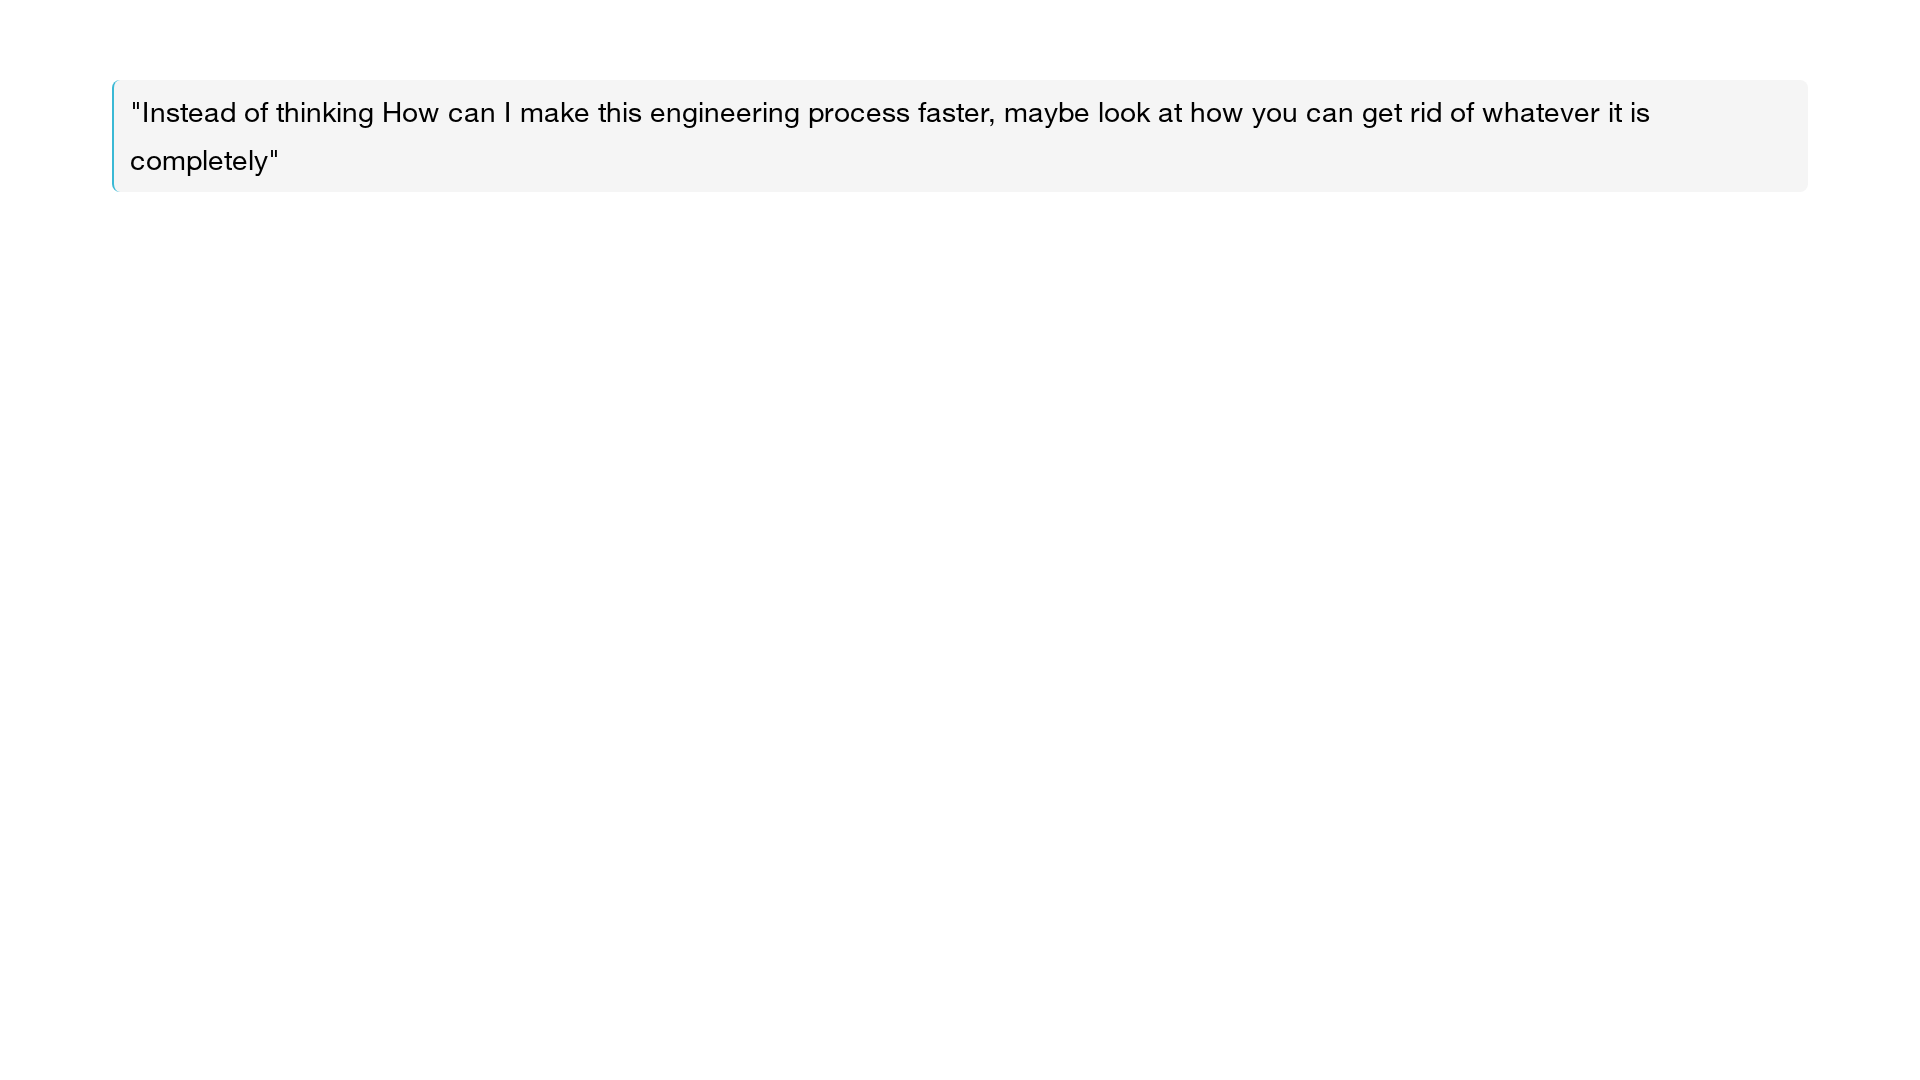
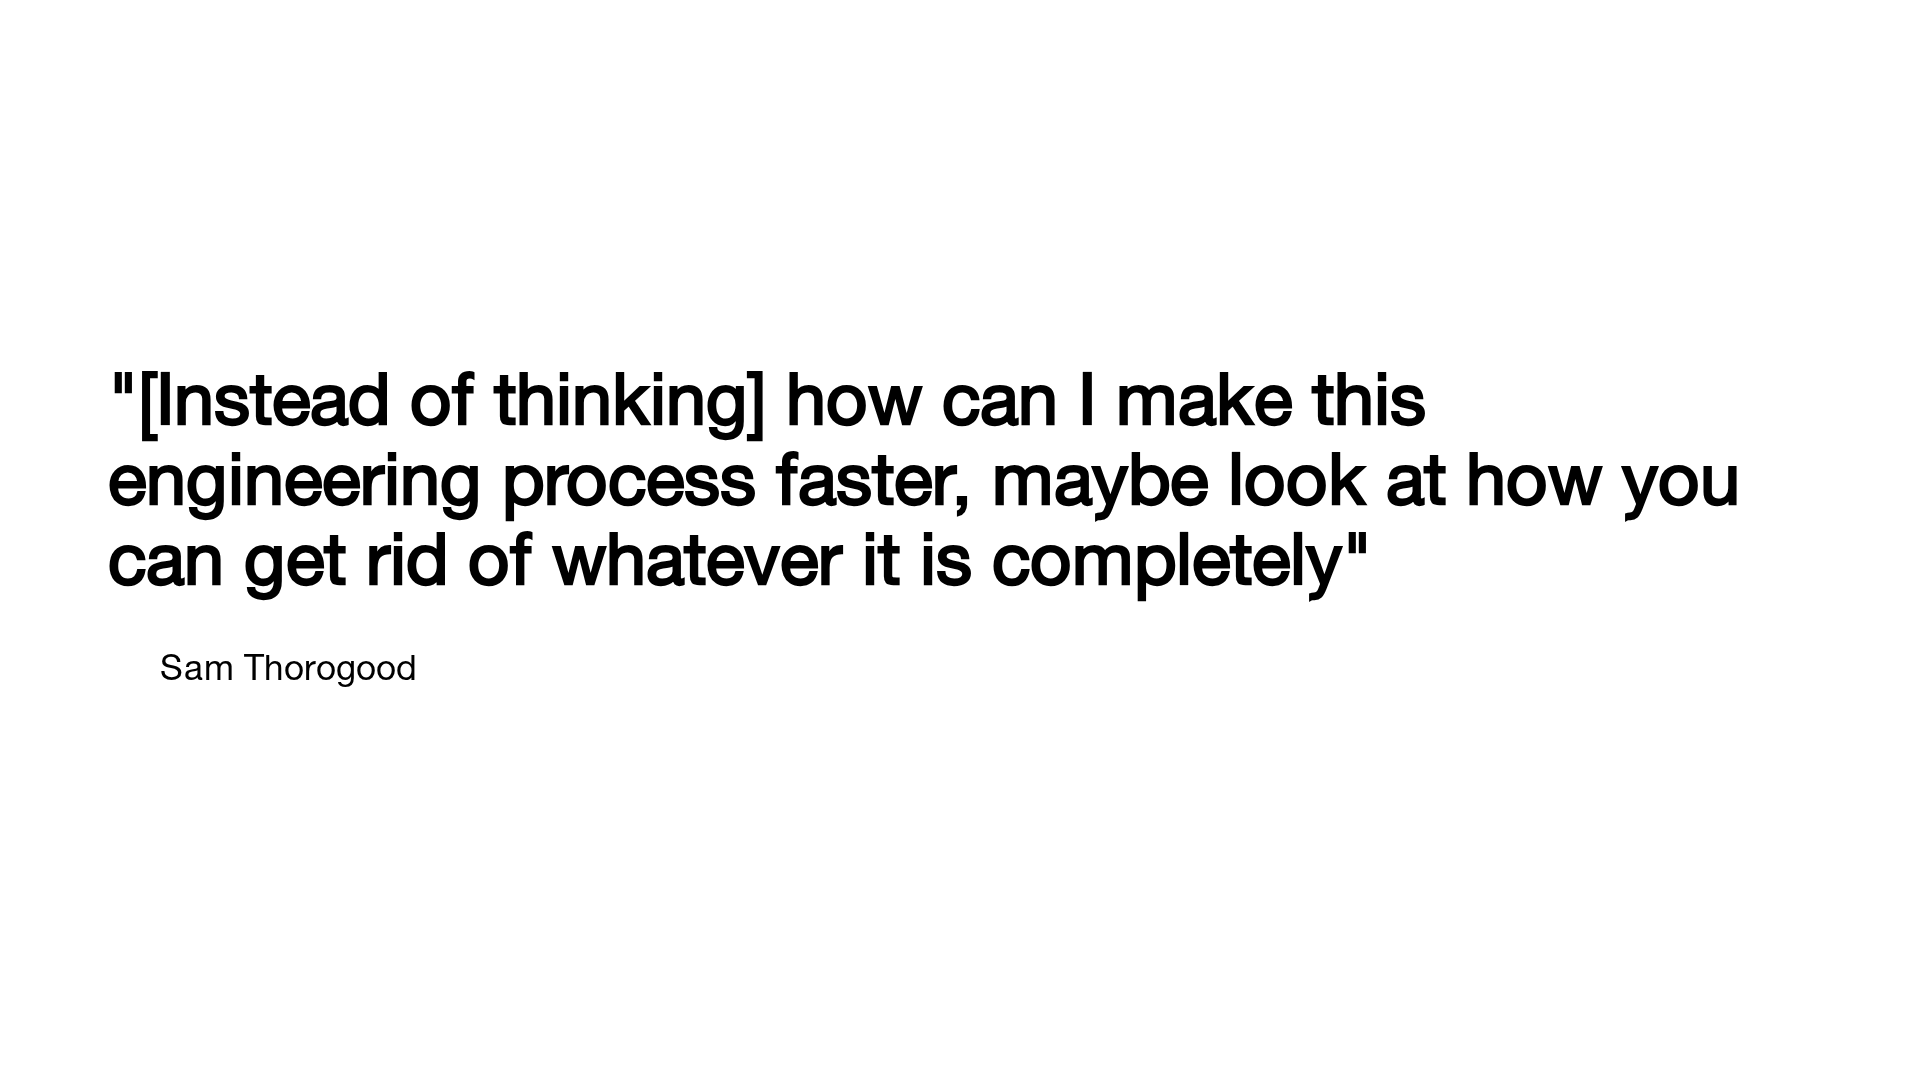
update quote

Changed region(s): [[0.0312, 0.3361, 0.9062, 0.55], [0.0625, 0.0917, 0.8438, 0.1833], [0.0938, 0.6111, 0.2188, 0.6417]]

diff --git a/slides.md b/slides.md
@@ -1774,8 +1774,12 @@ And I think that love this meme because you can apply it to anything.
 -->
 
 ---
+layout: quote
+---
 
-> "[Instead of thinking] How can I make this engineering process faster, maybe look at how you can get rid of whatever it is completely"
+# "\[Instead of thinking\] how can I make this engineering process faster, maybe look at how you can get rid of whatever it is completely"
+
+Sam Thorogood
 
 <!--
 Similarly, one of my favourite quotes: 
